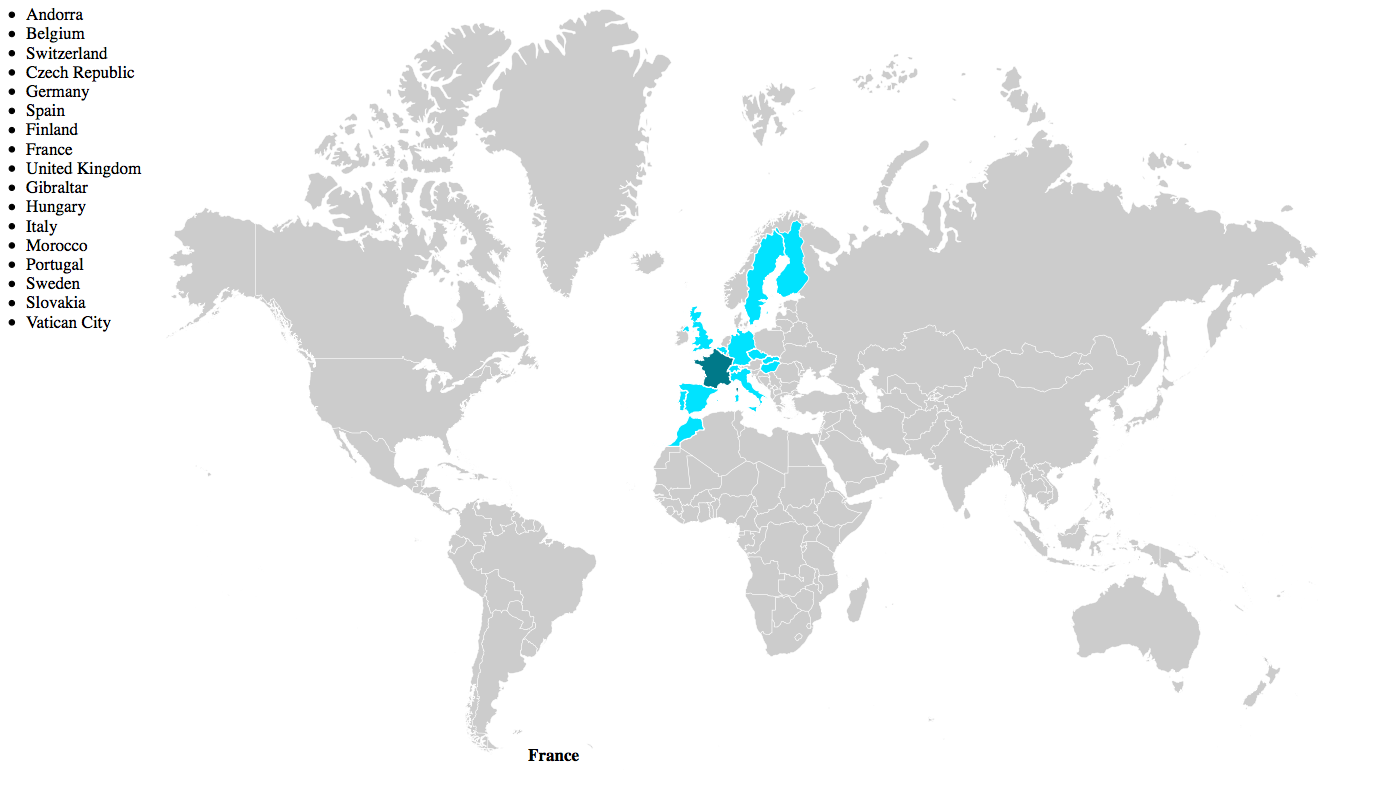
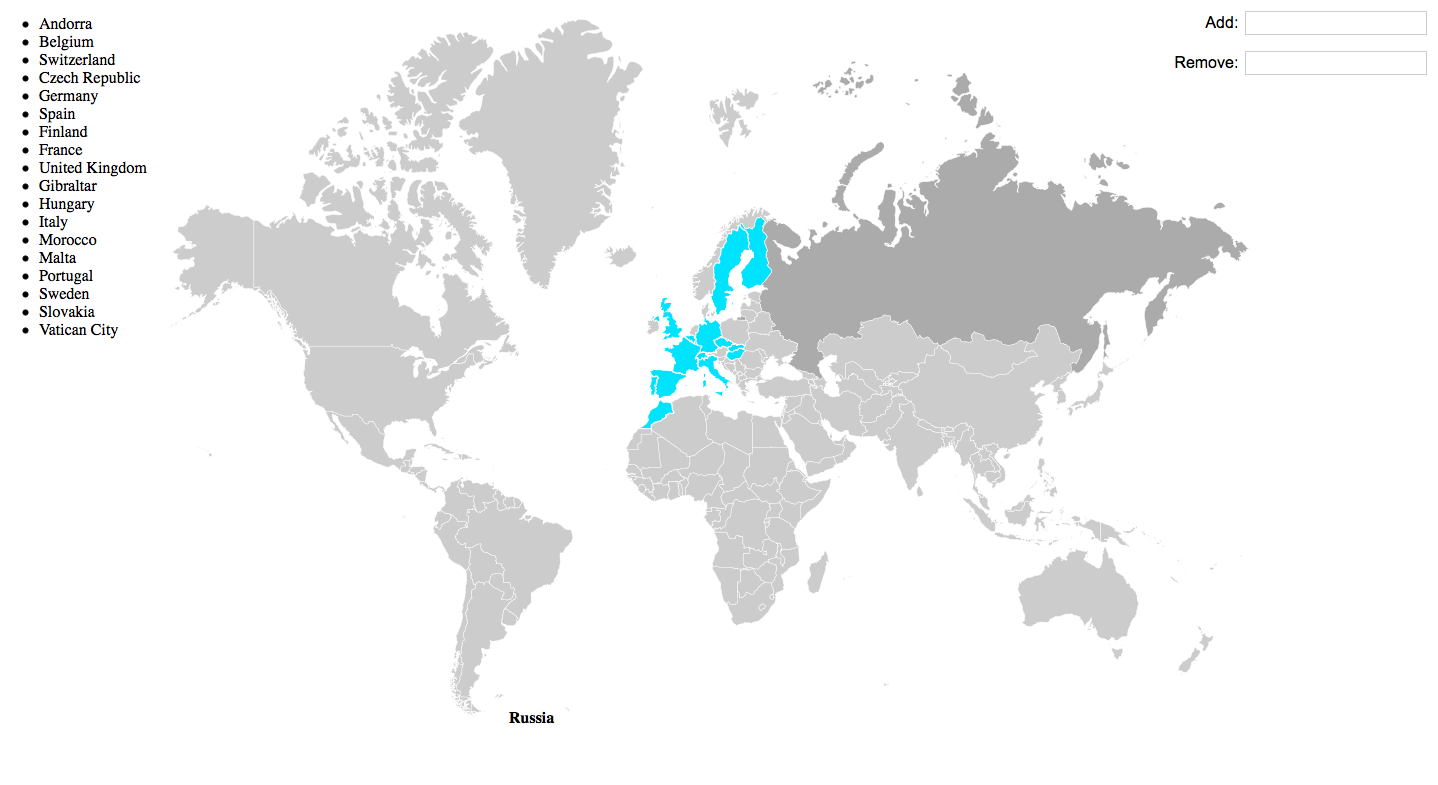
Updated README

diff --git a/README.md b/README.md
@@ -1,5 +1,7 @@
 # Visited_Countries
-Project in HTML and CSS which uses an SVG map to show which countries you have visited. There could be infinitely possible improvements to the project, so I invite you to fork the repository!
+Updated version of my old project which consisted basically of an HTML that used an SVG map to show which countries you had visited. I've added database support with an Sqlite3 to simplify things and two inputs to add/remove. Now there is no need to edit the source code, it can be done just by typing in the names of the countries (both inputs have JQuery's autocomplete).
+
+There could be infinitely possible improvements (especially concerning the UI) to the project, so I invite you to fork the repository!
 
 
 ![Image](https://github.com/diego95root/Visited_Countries/blob/master/Images/screenshot.png "List of available ips to poison:")
